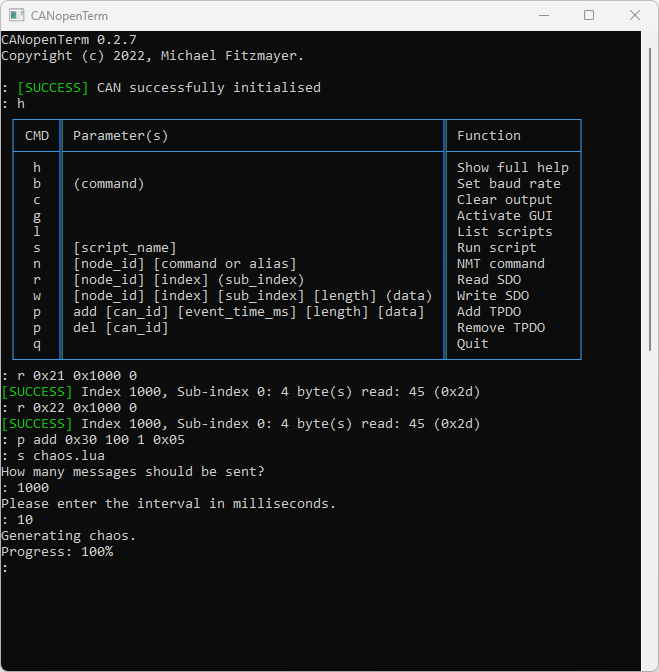
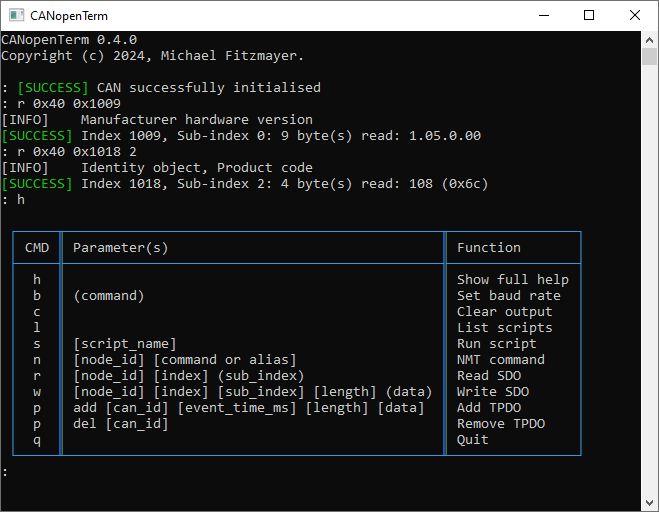
Update screenshot and README

diff --git a/src/dict.c b/src/dict.c
@@ -145,7 +145,7 @@ static const dict_entry_t dictionary[] =
     { 0x1FD0, 0x1FFF, 0x00, 0x00, "Object dispatching list, Highest sub-index supported" },
     { 0x1FD0, 0x1FFF, 0x01, 0x00, "Object dispatching list, Dispatch 1" },
     { 0x1FD0, 0x1FFF, 0x02, 0xFE, "Object dispatching list, Dispatch" },
-
+    { 0xC000, 0xFFFF, 0x00, 0xFF, "Reserved" },
 };
 
 const char* dict_lookup(Uint16 index, Uint8 sub_index)

diff --git a/README.md b/README.md
@@ -31,6 +31,8 @@ the terms of a permissive open source license.
 
 - Read and write Service Data Objects (SDO).
 
+- Built-in object dictionary
+
 - Send Network management (NMT) commands.
 
 - Simulate asynchronous Process Data Objects (PDO) for testing.

diff --git a/docs/README.md b/docs/README.md
@@ -31,6 +31,8 @@ the terms of a permissive open source license.
 
 - Read and write Service Data Objects (SDO).
 
+- Built-in object dictionary
+
 - Send Network management (NMT) commands.
 
 - Simulate asynchronous Process Data Objects (PDO) for testing.
